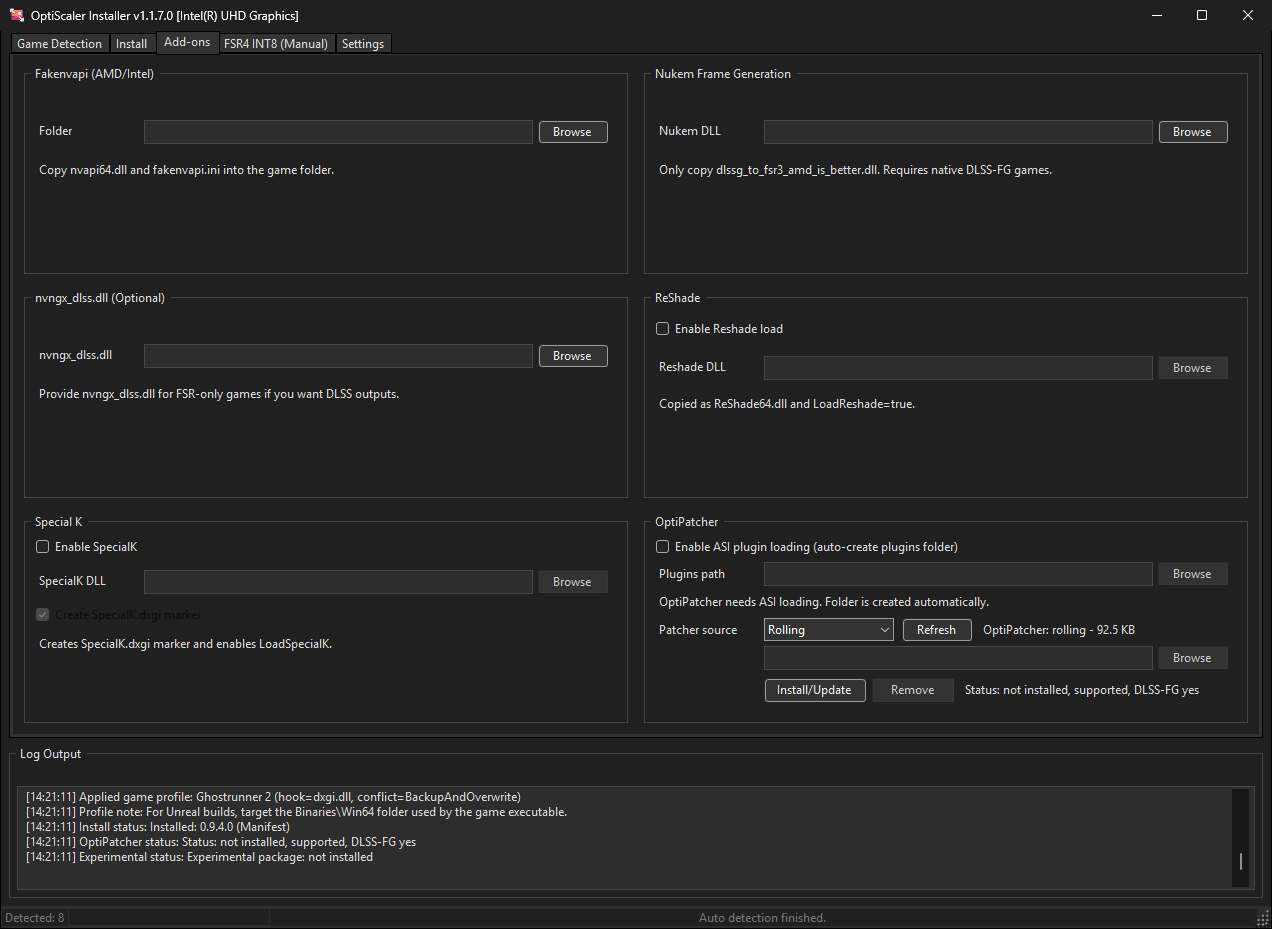
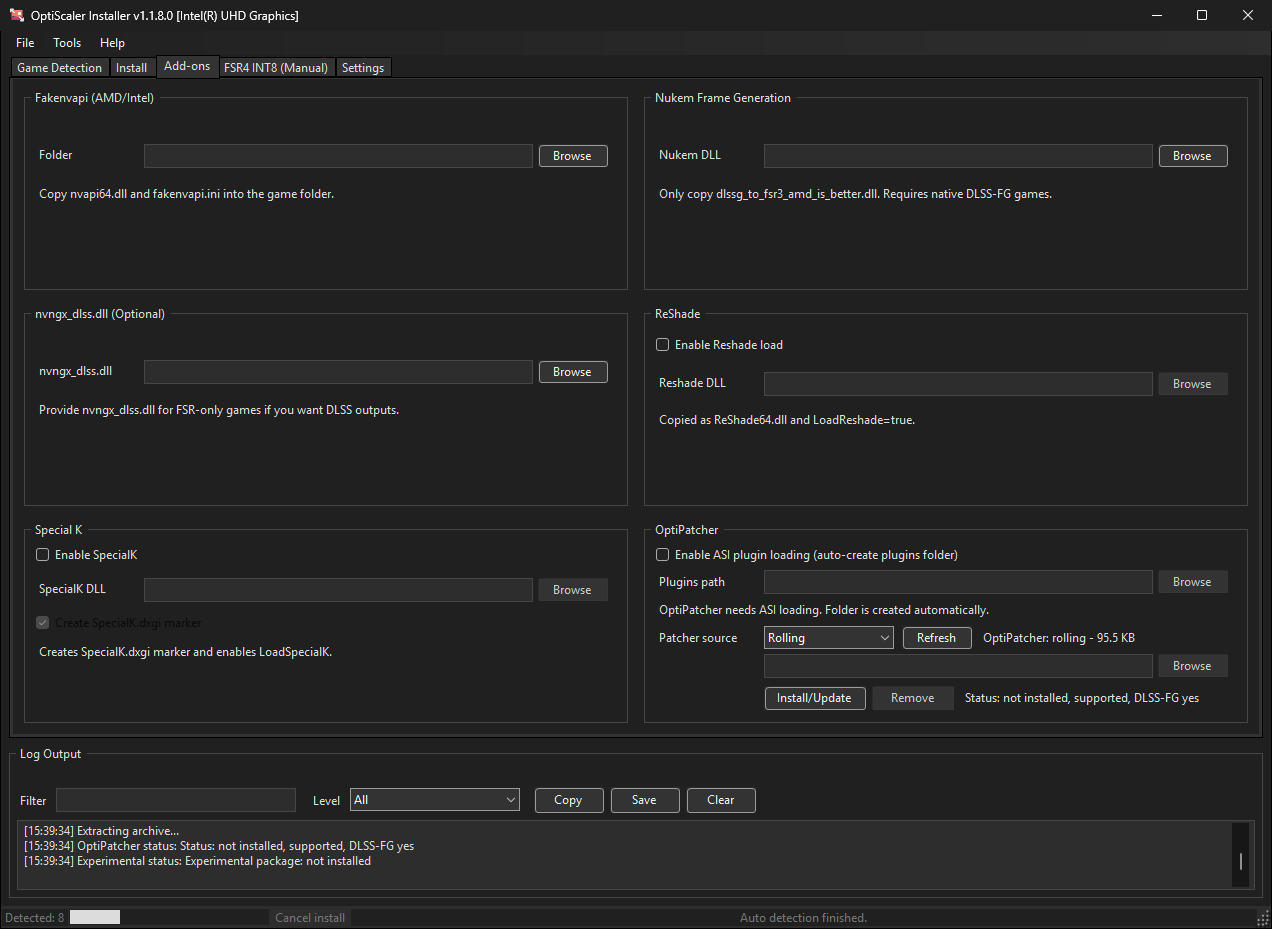
Replace success dialogs with a status line, refresh docs and screenshots
- Five post-action confirmations (settings saved, diagnostics saved, FSR4
  package applied and removed, OptiScaler removed) now use the transient status
  line instead of a modal. Their result was already visible in the UI and the
  log, and dismissing them without reading is exactly the habit that devalues
  the dialogs that matter, like the anti-cheat warning and the install review.
- Rename the menu strip field to appMenuStrip. VB is case-insensitive, so
  mainMenuStrip shadowed Form.MainMenuStrip and the build warned.
- Document the menu, shortcuts, cancellation, and the log pane controls in
  docs/usage.md; add ConfirmQuickInstall to docs/configuration.md.
- Add the unreleased CHANGELOG entry.
- Recapture the five main-window screenshots against the new UI.

diff --git a/docs/usage.md b/docs/usage.md
@@ -1,11 +1,13 @@
 # Usage
 
-The window is five tabs plus a shared log pane at the bottom. Everything the app does is written to that
-log, and the status bar shows the detected-game count and the current background operation.
+A menu bar, five tabs, and a shared log pane at the bottom. Everything the app does is written to that log,
+and the status bar shows the detected-game count, the current background operation, and a **Cancel** button
+while one is running.
 
 The title bar shows the installer version and, once GPU detection finishes, the active adapter — for example
 `OptiScaler Installer v1.1.7.0 [AMD Radeon RX 9070 XT]`.
 
+- [Menu and keyboard](#menu-and-keyboard)
 - [Game Detection](#game-detection)
 - [Install](#install)
 - [Add-ons](#add-ons)
@@ -13,6 +15,32 @@ The title bar shows the installer version and, once GPU detection finishes, the 
 - [Settings](#settings)
 - [INI editor](#ini-editor)
 - [Bulk operations](#bulk-operations)
+- [The log pane](#the-log-pane)
+
+## Menu and keyboard
+
+Everything in the menu is also a button somewhere; the menu exists so there is a predictable second place to
+look.
+
+| Menu | Contains |
+| --- | --- |
+| File | Open settings file, Exit |
+| Tools | Scan installed games, Add game manually, Refresh lists, Bulk actions, Export diagnostics |
+| Help | Documentation, OptiScaler wiki, Check for updates, About |
+
+| Shortcut | Action |
+| --- | --- |
+| <kbd>F5</kbd> | Refresh the compatibility and release lists |
+| <kbd>Ctrl</kbd>+<kbd>Shift</kbd>+<kbd>S</kbd> | Scan installed games |
+| <kbd>Ctrl</kbd>+<kbd>F</kbd> | Jump to Game Detection and focus the search box |
+| <kbd>Esc</kbd> | Cancel the running scan or download |
+
+### Cancelling
+
+Scans and downloads can be stopped from the **Cancel** button in the status bar or with <kbd>Esc</kbd>.
+Cancellation is cooperative: a scan stops at the next folder and **keeps everything it has already found**,
+and a cancelled download leaves no partial install, because extraction and copying only begin once the
+archive is complete.
 
 ## Game Detection
 
@@ -59,7 +87,8 @@ have one.
 Select a row, then use the button strip or the right-click menu:
 
 - **Use selected** — prefills the Install tab with the game's paths and its per-game profile.
-- **Quick install** / **Quick update** — installs or updates OptiScaler in place using your default options.
+- **Quick install** / **Quick update** — installs or updates OptiScaler in place using your default options,
+  after showing the same review dialog the Install tab uses.
 - **Uninstall OptiScaler** — removes the install using its manifest.
 - **Install OptiPatcher** / **Remove OptiPatcher** — same, for the plugin. Only enabled for games on the
   OptiPatcher support list.
@@ -211,6 +240,19 @@ what would happen to each game. Games with anti-cheat signatures are excluded un
 **Include anti-cheat warnings**. **Stop on first error** halts the run instead of continuing past a failure.
 
 Operations run sequentially, one game at a time, with per-game results reported to the log.
+
+## The log pane
+
+Every action, warning, and failure is written here with a timestamp. Warnings appear amber and failures red,
+so the line that matters does not disappear into the scrollback.
+
+- **Filter** narrows to lines containing the text you type.
+- **Level** hides anything below the chosen severity — useful for finding what went wrong in a long scan.
+- **Copy** and **Save** take the lines currently visible, so a filter narrows what you hand to a bug report.
+- **Clear** empties the view for this session.
+
+The buffer holds the most recent 4000 entries. For a full support bundle including system information and a
+detected-games snapshot, use **Tools → Export diagnostics** instead.
 
 ## Anti-cheat
 

diff --git a/CHANGELOG.md b/CHANGELOG.md
@@ -6,6 +6,37 @@ The format is based on [Keep a Changelog](https://keepachangelog.com/en/1.1.0/).
 from the build counter rather than semantic versioning — see
 [docs/building.md](docs/building.md#versioning).
 
+## [Unreleased]
+
+### Added
+
+- Menu bar (File / Tools / Help), so About, Check for updates, and Export diagnostics are reachable from
+  somewhere other than the bottom-right corner of the Settings tab.
+- Keyboard shortcuts: <kbd>F5</kbd> refresh, <kbd>Ctrl</kbd>+<kbd>Shift</kbd>+<kbd>S</kbd> scan,
+  <kbd>Ctrl</kbd>+<kbd>F</kbd> focus game search, <kbd>Esc</kbd> cancel.
+- Cancellation for drive scans and install downloads, with a Cancel button in the status bar. A cancelled
+  scan keeps the games it already found; a cancelled download cannot leave a half-written game folder.
+- Log filtering by text and by severity, with Copy, Save, and Clear. Warnings and errors are coloured, and
+  the buffer is capped at 4000 entries.
+- Empty-state message on the game list explaining why it is empty and what to do about it.
+- `.sha256` checksum published alongside each release package, and README guidance on the SmartScreen
+  prompt the unsigned executable produces.
+- `ConfirmQuickInstall` setting, for restoring one-click quick installs.
+
+### Changed
+
+- Quick install and bulk operations now show the same review dialog as the Install tab before writing
+  anything. The dialog also names the target folder, the files that will be written, and what happens to
+  files already there.
+- Minimum window size reduced from 1286x936 to 1100x700. The old floor could not be displayed on a
+  1366x768 laptop, and at 125% DPI scaling it needed more vertical space than a 1080p screen has. Tab
+  content now scrolls instead of compressing.
+
+### Fixed
+
+- Installer self-update could pick the wrong release asset. Two same-architecture zips scored identically
+  and the winner was whichever the release API happened to return first.
+
 ## [1.1.7.1] - 2026-08-03
 
 ### Fixed

diff --git a/docs/configuration.md b/docs/configuration.md
@@ -77,6 +77,7 @@ These seed the Install tab. They are what **Quick install** and bulk operations 
 | `DefaultIniMode` | `Off` | `Off`, `Merge`, or `Replace` — how a global INI template is applied at install time. |
 | `DefaultIniPath` | *(empty)* | Path to that template. |
 | `PreserveExistingIniOnUpdate` | `true` | Keep the game's existing `OptiScaler.ini` on update or reinstall. |
+| `ConfirmQuickInstall` | `true` | Show the install review dialog before a quick or bulk install writes anything. Set to `false` for one-click behaviour. No UI field; set it here. |
 
 ### FSR4 INT8
 
